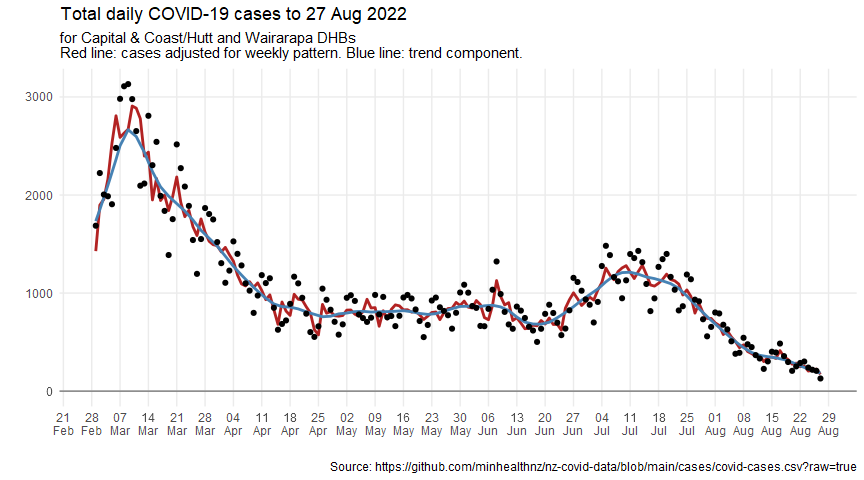
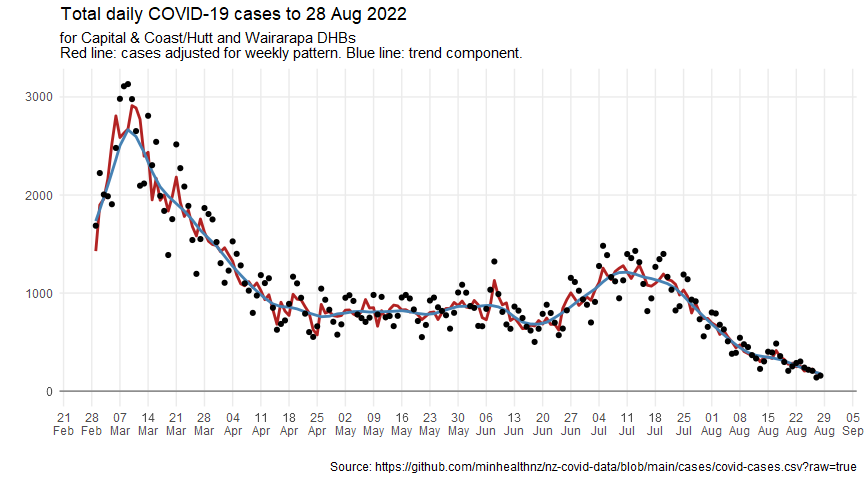
Update for 20220829

diff --git a/covid-post-peak-analysis.md b/covid-post-peak-analysis.md
@@ -34,7 +34,7 @@ cases_df <- read_csv(case_data_url) %>%
   clean_names()
 ```
 
-    ## Rows: 1734157 Columns: 7
+    ## Rows: 1735902 Columns: 7
     ## ── Column specification ────────────────────────────────────────────────────────
     ## Delimiter: ","
     ## chr  (5): Case Status, Sex, Age group, DHB, Overseas travel
@@ -51,7 +51,7 @@ cases_by_dhb_df <- cases_df %>%
   count(report_date, dhb, case_status)
 ```
 
-## Wellington figures up to 27 Aug 2022
+## Wellington figures up to 28 Aug 2022
 
 Including Hutt and Wairarapa as well as CCDHB.
 
@@ -171,11 +171,11 @@ maxima <- dhb_cases_after_transform_stl_df %>%
   summarise(cases = max(cases), adjusted = max(season_adjust), trend = max(trend))
 ```
 
-Looking at raw case numbers, the peak on 9 Mar 2022 was about 24.3 times
+Looking at raw case numbers, the peak on 9 Mar 2022 was about 22.5 times
 the lowest recent value.
 
-But when adjusting for the weekly pattern, it was 17 times the lowest
-recent adjusted value, and the trend was about 14.4 times the lowest
+But when adjusting for the weekly pattern, it was 16.3 times the lowest
+recent adjusted value, and the trend was about 14.9 times the lowest
 recent trend line.
 
 While the trend might be over-smoothed, the peak coincinded with the
